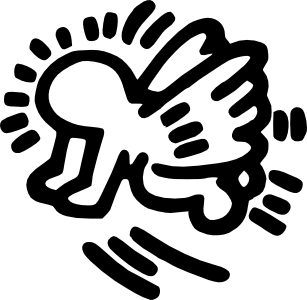
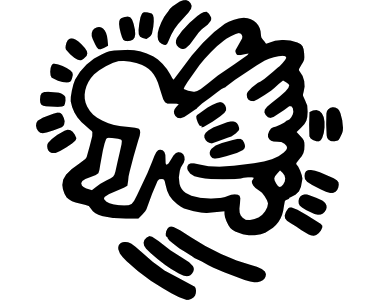
Fixing layout for Firefox
+ Absolute positioning of .figure messed it up
+ Figure images with same size ratio now important

diff --git a/app/styles/haring.css b/app/styles/haring.css
@@ -1,34 +1,23 @@
 
 .flexbox {
   display: flex;
-  display: -webkit-box;
-  display: -moz-box;
-  display: -ms-flexbox;
-  display: -webkit-flex;
 }
 
 .container {
-  /*display: flex;*/
+  display: flex;
   flex-direction: column;
 }
 
 .figure-row {
-  /*display: flex;*/
+  display: flex;
   flex-direction: row;
   flex-wrap: nowrap;
 }
 
 .figure-wrapper {
   width: 100%;
-  padding-bottom: 13%;
   position: relative;
-
-  -webkit-box-flex: 1;
-  -moz-box-flex: 1;
-  -webkit-flex: 1;
-  -ms-flex: 1;
   flex: 1;
-
 }
 
 .bg {
@@ -72,18 +61,6 @@
   background-size: 100%;
 }
 
-.figure {
-
-  position: absolute;
-  top: 0;
-  bottom: 0;
-  left: 0;
-  right: 0;
-
-  text-align: center;
-
-}
-
 /*noinspection CssUnknownTarget*/
 .figure.solid {
   background: url('../images/haring/border.png') no-repeat;
@@ -100,14 +77,13 @@
   z-index: 10;
   max-width: 70%;
   max-height: 70%;
-  margin-top: 13%;
+  margin: 13%;
+  margin-left: 15%;
 }
 
 .skating {
-  margin-top: 7% !important;
-  margin-left: 1% !important;
-  max-width: 100% !important;
-  max-height: 83% !important;
+  margin: 7% !important;
+  max-width: 87% !important;
 }
 
 .green {
